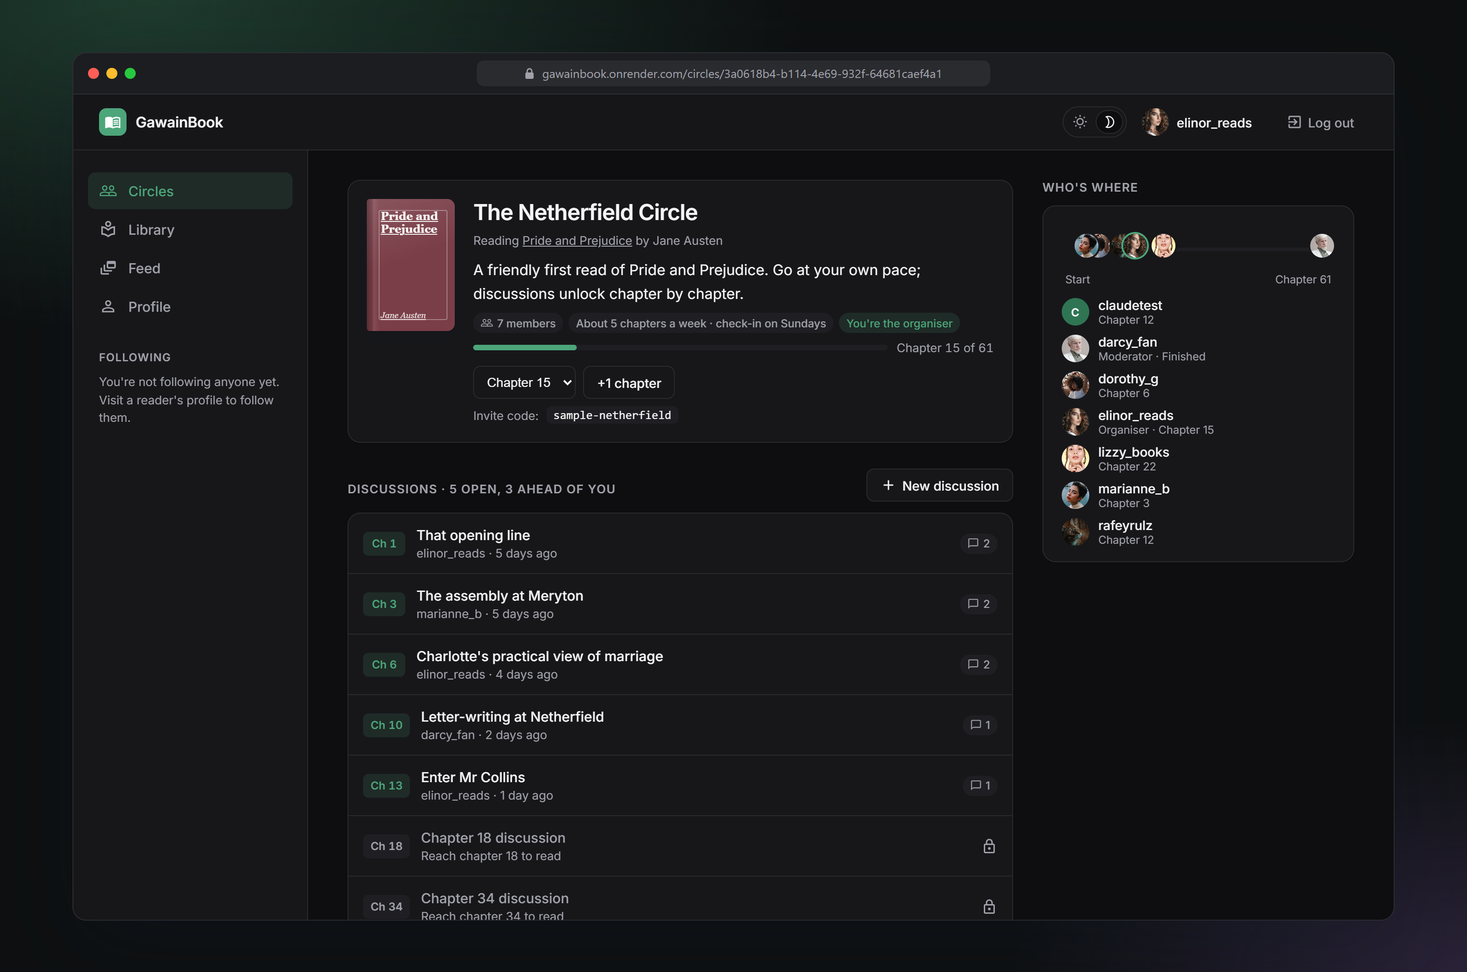
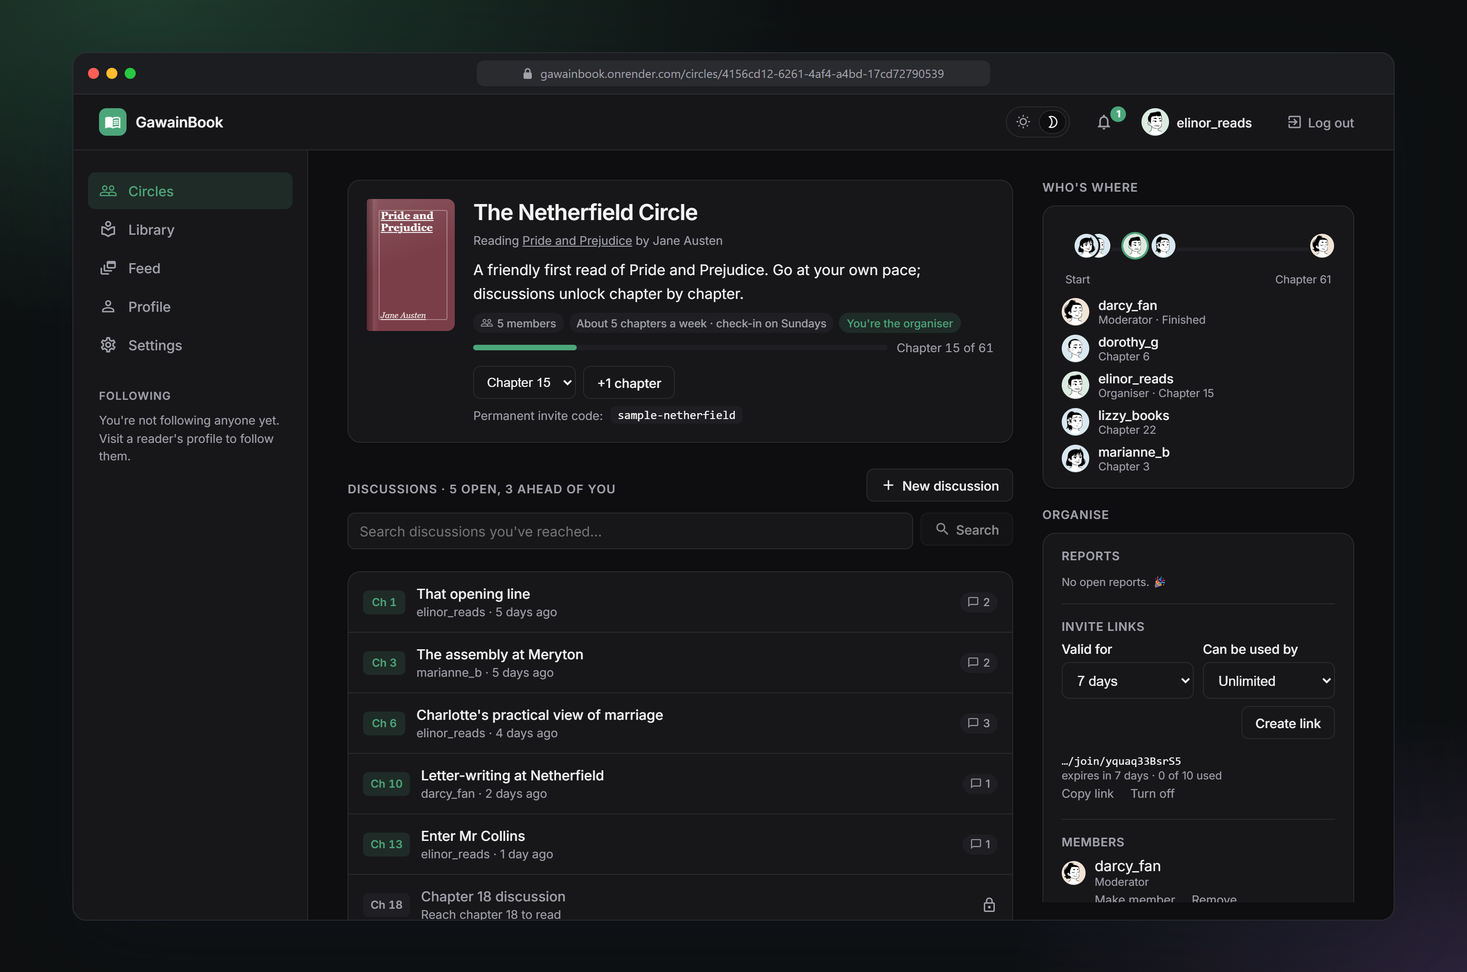
README: new screenshots, how-it-works and architecture diagrams, security section

diff --git a/e2e/scripts/readme-screenshots.js b/e2e/scripts/readme-screenshots.js
@@ -1,0 +1,140 @@
+// README screenshots, framed in a browser window (or phone) on a soft background.
+// Start the throwaway server first (node Node-Rest-API/dist/scripts/e2eServer.js), then:
+//   cd e2e && node scripts/readme-screenshots.js http://localhost:8899 ../docs/screenshots
+// Set PW_CHANNEL=msedge on Windows to use the installed Edge.
+const { chromium } = require("@playwright/test");
+const fs = require("fs");
+const path = require("path");
+const [base, outDir] = process.argv.slice(2);
+const SHOWN_HOST = "gawainbook.onrender.com";
+const PASSWORD = "sample-password";
+fs.mkdirSync(outDir, { recursive: true });
+const wait = (ms) => new Promise((r) => setTimeout(r, ms));
+
+async function login(ctx, username) {
+  const page = await ctx.newPage();
+  await page.goto(base + "/login", { waitUntil: "networkidle" });
+  await page.fill("#email", `${username}@sample.gawainbook.invalid`);
+  await page.fill("#password", PASSWORD);
+  await page.click("button[type=submit]");
+  await page.waitForSelector("a[href^='/circles/']");
+  return page;
+}
+
+// Calls the API from inside the page (cookies + CSRF header, like the app).
+const api = (page, method, url, body) =>
+  page.evaluate(
+    async ({ method, url, body }) => {
+      const csrf = decodeURIComponent((document.cookie.match(/(?:^|; )gb_csrf=([^;]+)/) || [])[1] || "");
+      const r = await fetch("/api" + url, { method, credentials: "include", headers: { "Content-Type": "application/json", "X-CSRF-Token": csrf }, body: body ? JSON.stringify(body) : undefined });
+      return r.json();
+    },
+    { method, url, body }
+  );
+
+async function settle(page) {
+  await page.waitForLoadState("networkidle");
+  await page.evaluate(() => Promise.all([...document.images].map((i) => (i.complete ? null : new Promise((r) => { i.onload = i.onerror = r; setTimeout(r, 8000); })))));
+  await wait(700);
+}
+
+function frameHtml({ shot, url, theme, phone }) {
+  const dark = theme === "dark";
+  const bg = dark
+    ? "radial-gradient(1200px 600px at 10% 0%, #1e3b2e 0%, transparent 60%), radial-gradient(900px 500px at 100% 100%, #2a2238 0%, transparent 55%), #0d0f10"
+    : "radial-gradient(1200px 600px at 0% 0%, #dcebe1 0%, transparent 60%), radial-gradient(900px 500px at 100% 100%, #f1e4d6 0%, transparent 55%), #f5f3ee";
+  if (phone) {
+    return `<html><body style="margin:0;background:${bg};width:760px;height:1000px;display:grid;place-items:center">
+      <div style="padding:14px;border-radius:52px;background:#111;box-shadow:0 30px 80px rgba(16,24,40,.35),0 0 0 2px #2b2b2b inset">
+        <div style="position:relative;border-radius:40px;overflow:hidden;width:390px;height:844px">
+          <img src="${shot}" style="width:390px;display:block">
+          <div style="position:absolute;top:10px;left:50%;transform:translateX(-50%);width:110px;height:30px;border-radius:20px;background:#111"></div>
+        </div></div></body></html>`;
+  }
+  const chrome = dark ? "#1c1d20" : "#ffffff", bar = dark ? "#2a2b2f" : "#f1f1ef", text = dark ? "#a1a1aa" : "#6b6b73", border = dark ? "#2e2f33" : "#e3e3df";
+  return `<html><body style="margin:0;background:${bg};width:1600px;height:1060px;display:grid;place-items:center;font-family:Segoe UI,sans-serif">
+    <div style="width:1440px;border-radius:14px;overflow:hidden;background:${chrome};box-shadow:0 30px 90px rgba(16,24,40,.28),0 0 0 1px ${border}">
+      <div style="height:44px;display:flex;align-items:center;gap:8px;padding:0 16px;border-bottom:1px solid ${border}">
+        <span style="width:12px;height:12px;border-radius:50%;background:#ff5f57"></span><span style="width:12px;height:12px;border-radius:50%;background:#febc2e"></span><span style="width:12px;height:12px;border-radius:50%;background:#28c840"></span>
+        <div style="margin:0 auto;width:560px;height:28px;border-radius:8px;background:${bar};display:flex;align-items:center;justify-content:center;gap:8px;font-size:13px;color:${text}">
+          <svg width="11" height="12" viewBox="0 0 11 12"><rect x="1" y="5" width="9" height="7" rx="1.5" fill="${text}"/><path d="M3 5V3.5a2.5 2.5 0 015 0V5" stroke="${text}" stroke-width="1.4" fill="none"/></svg>${url}</div>
+        <span style="width:52px"></span></div>
+      <img src="${shot}" style="width:1440px;display:block"></div></body></html>`;
+}
+
+async function frame(browser, buf, opts, file) {
+  const raw = path.join(outDir, "_raw-" + file);
+  fs.writeFileSync(raw, buf);
+  const html = path.join(outDir, "_frame.html");
+  fs.writeFileSync(html, frameHtml({ shot: "file:///" + raw.replace(/\\/g, "/"), ...opts }));
+  const ctx = await browser.newContext({ viewport: { width: opts.phone ? 760 : 1600, height: opts.phone ? 1000 : 1060 }, deviceScaleFactor: 2 });
+  const p = await ctx.newPage();
+  await p.goto("file:///" + html.replace(/\\/g, "/"));
+  await p.evaluate(() => Promise.all([...document.images].map((i) => i.decode().catch(() => {}))));
+  await p.screenshot({ path: path.join(outDir, file) });
+  await ctx.close();
+  fs.unlinkSync(raw);
+  console.log("framed", file);
+}
+
+(async () => {
+  const browser = await chromium.launch({ channel: process.env.PW_CHANNEL || undefined, args: ["--allow-file-access-from-files"] });
+
+  // Stage the data: darcy replies to elinor's discussion (a notification),
+  // elinor fills in her reading profile.
+  const dctx = await browser.newContext();
+  const darcy = await login(dctx, "darcy_fan");
+  const elCtx = await browser.newContext({ viewport: { width: 1440, height: 900 }, deviceScaleFactor: 2 });
+  const el = await login(elCtx, "elinor_reads");
+  const circle = await el.$$eval("a[href^='/circles/']", (as) => as.find((a) => a.textContent.includes("Netherfield")).getAttribute("href"));
+  await el.goto(base + circle, { waitUntil: "networkidle" });
+  const thread = await el.$$eval("a[href^='/threads/']", (as) => as.find((a) => a.textContent.includes("Charlotte")).getAttribute("href"));
+  await api(darcy, "POST", `${thread}/comments`, { body: "Practical, yes, but she knew exactly what she was choosing. I respect her more on a reread." });
+  const me = await api(el, "GET", "/auth/me");
+  await api(el, "PUT", `/users/${me._id}`, { favoriteGenres: ["Classics", "Romance", "Historical fiction"], readingLanguage: "en", pace: 5 });
+  await api(el, "POST", `${circle}/invitations`, { expiresInDays: 7, maxUses: 10 });
+
+  const capture = async (page, url, { theme = "light", ready, action } = {}) => {
+    await page.goto(base + url, { waitUntil: "networkidle" });
+    await page.evaluate((t) => localStorage.setItem("theme", t), theme);
+    await page.reload({ waitUntil: "networkidle" });
+    if (ready) await page.waitForSelector(ready);
+    if (action) await action(page);
+    await settle(page);
+    return page.screenshot();
+  };
+
+  const shots = [
+    ["circles-home.png", "/", { ready: ".circleGrid" }],
+    ["circle.png", circle, { ready: ".memberList" }],
+    ["circle-dark.png", circle, { ready: ".memberList", theme: "dark" }],
+    ["discussion.png", thread, { ready: ".threadTitle" }],
+    ["notifications.png", "/", { ready: ".circleGrid", action: async (p) => { await p.click("button[aria-label^='Notifications']"); await p.waitForSelector(".notifPanel"); } }],
+    ["book.png", "/books/pride-and-prejudice", { ready: ".chapterMap" }],
+    ["library.png", "/library", { ready: ".libraryGrid" }],
+    ["profile.png", "/profile/elinor_reads", { ready: ".factList" }],
+    ["settings.png", "/settings", { ready: "form[aria-label='Change password']" }],
+  ];
+  for (const [file, url, opts] of shots) {
+    const buf = await capture(el, url, opts);
+    const shown = url === "/" ? "" : url;
+    await frame(browser, buf, { url: SHOWN_HOST + shown, theme: opts.theme || "light" }, file);
+  }
+
+  // Phone
+  const mctx = await browser.newContext({ viewport: { width: 390, height: 844 }, deviceScaleFactor: 2, storageState: await elCtx.storageState() });
+  const m = await mctx.newPage();
+  await frame(browser, await capture(m, circle, { ready: ".circleHero" }), { phone: true }, "mobile-circle.png");
+  await frame(browser, await capture(m, thread, { ready: ".replyList" }), { phone: true }, "mobile-discussion.png");
+
+  // Signed out: create-account page
+  const gctx = await browser.newContext({ viewport: { width: 1440, height: 900 }, deviceScaleFactor: 2 });
+  const g = await gctx.newPage();
+  await frame(browser, await capture(g, "/register", { ready: "#username" }), { url: SHOWN_HOST + "/register" }, "sign-up.png");
+
+  fs.rmSync(path.join(outDir, "_frame.html"), { force: true });
+  await browser.close();
+})().catch((e) => {
+  console.error(e);
+  process.exit(1);
+});

diff --git a/README.md b/README.md
@@ -4,6 +4,8 @@
 
 <p align="center">
   <a href="https://gawainbook.onrender.com"><strong>Live demo</strong></a> ·
+  <a href="#how-the-spoiler-lock-works">How it works</a> ·
+  <a href="#screenshots">Screenshots</a> ·
   <a href="#getting-started">Run locally</a> ·
   <a href="#api-reference">API</a> ·
   <a href="#roadmap">Roadmap</a> ·
@@ -25,43 +27,63 @@
 
 ## About
 
-**GawainBook** is a social network for readers. Share what you're reading, post your thoughts and quotes, follow other readers and see what the people you trust are reading next.
+**GawainBook** is a home for reading circles: small groups reading the same book at their own pace. Every discussion belongs to a chapter, and **a discussion stays locked until you reach that chapter**: its title, its replies, search results and notifications included. So the reader on chapter 4 can talk freely with the reader on chapter 40, and neither spoils anything for the other.
 
-It's a full-stack TypeScript/JavaScript app: a React frontend and an Express API backed by **PostgreSQL on Neon**, with photos in **Neon object storage**. It's deployed as a single service: the Express API also serves the React app, so the whole thing runs at one URL.
+Around that sit the things a reading community needs: shelves and chapter-by-chapter progress, invite links for private circles, organiser and moderator roles, reporting and blocking, and a feed for sharing what you're reading.
+
+It's a full-stack TypeScript app: a React frontend and an Express API backed by **PostgreSQL on Neon**, with photos in **Neon object storage**. It runs as a single service: the Express API also serves the React app, so the whole thing lives at one URL.
 
 > **Live demo:** https://gawainbook.onrender.com
 > Runs on Render's free plan, which sleeps after 15 minutes without visitors. The first load can take 30–60 seconds while it wakes up.
 
+## How the spoiler lock works
+
+One function decides who can see what ([`src/policy.ts`](Node-Rest-API/src/policy.ts)), and every route that returns discussion content goes through it. Lists apply the same rule in SQL (`chapter <= your progress`), so later chapters never leave the database.
+
+```mermaid
+flowchart LR
+    R([Reader opens a discussion]) --> V{Can see the circle?<br/>public, or a member}
+    V -- no --> H[404 Not found<br/><i>a private circle isn't revealed</i>]
+    V -- yes --> B{Blocked either way?}
+    B -- yes --> H
+    B -- no --> P{Reached its chapter?<br/>progress comes from the database}
+    P -- no --> L[Locked placeholder<br/><i>chapter number only:<br/>no title, author or text</i>]
+    P -- yes --> O[Open: title, text, replies]
+```
+
+The same check filters thread lists, single threads, replies, search and notifications. Move your progress back and later discussions lock again straight away. A [10-case test matrix](docs/plan/GawainBook_Launch_Plan.md#44-the-test-matrix-that-proves-the-core-promise) and a Playwright test in a real browser prove it.
+
 ## Screenshots
 
 <p align="center">
-  <img src="docs/screenshots/circle.png" alt="A reading circle: members' progress along the book, open discussions and spoiler-locked ones" width="900">
-  <br><sub><b>A reading circle.</b> Everyone's place in the book on the right; discussions ahead of you stay locked until you get there.</sub>
+  <img src="docs/screenshots/circle.png" alt="A reading circle: members' progress along the book, open discussions, locked ones, and the organiser's tools" width="920">
+  <br><sub><b>A reading circle.</b> Who's where in the book, discussions up to your chapter, later ones locked. Organisers get invite links, members and reports beside it.</sub>
 </p>
 
-| Your circles | A chapter discussion |
+| Your circles | Notifications, filtered by the spoiler rule |
 | :---: | :---: |
-| <img src="docs/screenshots/circles-home.png" alt="Home screen: continue reading and your circles" width="440"> | <img src="docs/screenshots/discussion.png" alt="A chapter discussion with replies" width="440"> |
-| **Book page with chapter map** | **Your library and shelves** |
-| <img src="docs/screenshots/book.png" alt="Book page with chapter map and circles reading it" width="440"> | <img src="docs/screenshots/library.png" alt="Library grid of books" width="440"> |
-| **Profile with photo and cover** | **Dark mode** |
-| <img src="docs/screenshots/profile.png" alt="Reader profile with profile photo and cover image" width="440"> | <img src="docs/screenshots/circle-dark.png" alt="Circle page in dark mode" width="440"> |
-| **On your phone** | **Sign in** |
-| <img src="docs/screenshots/mobile-circle.png" alt="Circle page on a phone with tab navigation" width="300"> | <img src="docs/screenshots/sign-in.png" alt="Sign-in page" width="440"> |
+| <img src="docs/screenshots/circles-home.png" alt="Home: continue reading, your circles and circles to discover" width="440"> | <img src="docs/screenshots/notifications.png" alt="Notification panel showing a reply to your discussion" width="440"> |
+| **A chapter discussion** | **Book page with chapter map** |
+| <img src="docs/screenshots/discussion.png" alt="A chapter discussion with replies, edit, report and moderation actions" width="440"> | <img src="docs/screenshots/book.png" alt="Book page with a chapter map and the circles reading it" width="440"> |
+| **Profile and reading profile** | **Library: shelves and book search** |
+| <img src="docs/screenshots/profile.png" alt="Profile with avatar, reading profile (genres, language, pace) and posts" width="440"> | <img src="docs/screenshots/library.png" alt="Library with shelves and progress" width="440"> |
+| **Settings: password, data export, deletion** | **Dark mode** |
+| <img src="docs/screenshots/settings.png" alt="Settings page with email status, password change, data download and account deletion" width="440"> | <img src="docs/screenshots/circle-dark.png" alt="Circle page in dark mode" width="440"> |
+| **Sign-up with consent** | **On your phone** |
+| <img src="docs/screenshots/sign-up.png" alt="Create-account page with terms and age confirmation" width="440"> | <img src="docs/screenshots/mobile-circle.png" alt="Circle page on a phone" width="210"> <img src="docs/screenshots/mobile-discussion.png" alt="Discussion on a phone" width="210"> |
 
-<sub>Captured from the live demo with the sample readers.</sub>
+<sub>Captured from a throwaway copy of the app with the demo data (sample readers use CC0 avatars). Regenerate them with [`e2e/scripts/readme-screenshots.js`](e2e/scripts/readme-screenshots.js).</sub>
 
 ## Features
 
 **Accounts**
-- Forgotten password: reset by email (single-use, one-hour links); confirm your email from a link
-- Settings: change your password (needs the current one), download all your data, delete your account
-- Sign-up asks for the terms, privacy notice and minimum age (16); the accepted version is recorded
-- Sign up and sign in from a single page, with a smooth switch between the two
-- Clear inline errors (wrong password, email already registered, username taken)
-- Secure sessions: an httpOnly cookie (never readable by JavaScript), CSRF protection, server-side logout, and rate limits on sign-in
-- Sign-in emails are case- and whitespace-insensitive; password hashes never leave the server
-- Log out from the top bar
+- Sign up and sign in from a single page, with a smooth switch between the two and clear inline errors
+- Sign-up asks you to accept the terms and privacy notice and to confirm you're at least 16; the accepted terms version is recorded
+- Confirm your email from a link; a banner reminds you until you do
+- **Forgotten password:** reset by email with a single-use link that lasts one hour. The answer is the same whether or not an account exists, so nobody can find out who's signed up
+- **Settings:** change your password (needs the current one, signs out other devices), download all your data as JSON, delete your account
+- Secure sessions: an httpOnly cookie (never readable by JavaScript), CSRF protection, server-side logout, and rate limits on sign-in and password reset
+- Passwords of at least 8 characters, stored only as bcrypt hashes
 - Light and dark themes, remembered per browser
 - Full-width layout with a fixed sidebar and context panels (who's where, chapter map) on wide screens, and a tab bar on phones
 
@@ -79,7 +101,16 @@ It's a full-stack TypeScript/JavaScript app: a React frontend and an Express API
 - Report a discussion or reply (spoiler, unkind, spam, other) to the circle's moderators, who see a review queue
 - Moderators hide content; members see a placeholder, moderators still see what was hidden
 - Block a reader: you stop seeing each other's discussions, replies, posts and notifications, and any follows end
+- Report a post or a profile; these go to the site's admins
+- **Admin area** (`/admin`): review reports, delete posts, suspend and unsuspend accounts. A suspended reader is signed out everywhere and hidden from everyone else
 - Rate limits on posting, per reader
+
+**Privacy and legal (Germany / GDPR)**
+- Terms of use, privacy notice and Impressum pages
+- No tracking or advertising cookies, so no cookie banner
+- Fonts are served from this site, not Google Fonts (which would send visitors' IP addresses to Google)
+- Book search goes through the server, so Open Library never learns who searched
+- How far you've read is only shown inside circles you share
 
 **Books and library**
 - Shelves: *Want to read*, *Reading*, *Finished*, with chapter-by-chapter progress (private to you)
@@ -112,8 +143,11 @@ The full plan is in [`docs/plan/GawainBook_Launch_Plan.md`](docs/plan/GawainBook
 - [x] Reading circles with chapter progress and spoiler-safe discussions
 - [x] Invite links, roles, search, reporting, blocking, moderation and notifications (Phase 1)
 - [x] End-to-end test of the whole circle journey in a real browser (Playwright)
-- [ ] A spoiler-aware reading assistant for public-domain books
 - [x] Password reset, email confirmation, data export, account deletion, terms, site-wide reports and an admin area ([launch readiness](docs/launch-readiness.md))
+- [ ] Email sending switched on in production (needs a Resend account and a verified domain)
+- [ ] Error tracking and uptime monitoring
+- [ ] Reading reminders by email
+- [ ] A spoiler-aware reading assistant for public-domain books (Phase 2)
 
 ## Tech stack
 
@@ -123,8 +157,52 @@ The full plan is in [`docs/plan/GawainBook_Launch_Plan.md`](docs/plan/GawainBook
 | Backend | Node.js 22, Express 4, **TypeScript**, bcrypt, Helmet, Multer |
 | Database | **PostgreSQL on Neon**, **Drizzle ORM** + SQL migrations, node-postgres |
 | File storage | **Neon object storage** (S3-compatible, private bucket, presigned URLs) |
+| Email | [Resend](https://resend.com) for account emails (written to the server log when no key is set) |
 | Testing | Jest, Supertest, React Testing Library, Playwright, a real embedded PostgreSQL for backend and end-to-end tests |
 | Hosting | Render (single web service, auto-deploys on every push to `master`) |
+
+## Architecture
+
+```mermaid
+flowchart LR
+    subgraph Browser
+      UI[React app<br/>React Router, Axios]
+    end
+    subgraph Render["Render: one web service"]
+      API[Express API<br/>TypeScript]
+      POL[[policy.ts<br/>spoiler + access rules]]
+      API --- POL
+    end
+    UI -- "/api, session cookie + CSRF header" --> API
+    API -- "Drizzle ORM, SQL migrations" --> DB[(Neon Postgres)]
+    API -- "S3 API, signed links" --> S3[(Neon object storage<br/>photos)]
+    API -- "book search, cached" --> OL[Open Library]
+    API -- "account emails" --> MAIL[Resend]
+```
+
+- **One service, one URL.** Express serves both `/api` and the built React app, so there's no CORS and cookies stay first-party.
+- **Database first.** Constraints (unique usernames, valid roles, chapter ranges, one open report per reader) live in Postgres, and every migration is a committed SQL file applied on startup.
+- **Photos never touch the server disk.** They go to a private bucket and are served through short-lived signed links, so they survive redeploys.
+- **Third parties never see who's reading.** Book search is proxied and cached by the server; fonts are self-hosted.
+
+The reasoning behind each choice is in the [decision log](docs/decisions/README.md).
+
+## Security and privacy
+
+| Area | How it's handled |
+| --- | --- |
+| Sessions | Random token in an `httpOnly`, `Secure`, `SameSite=Lax` cookie; only its SHA-256 hash is stored. Server-side logout; 30-day expiry |
+| CSRF | Double-submit token required on every state-changing request |
+| Passwords | bcrypt, at least 8 characters; changing or resetting signs out other devices; changing needs the current password |
+| Reset and confirmation links | 256-bit random, stored hashed, single use, short-lived (1 h / 48 h), only the newest works, built from `APP_URL` (not the request's Host header) |
+| Account discovery | Sign-in and "forgot password" give the same answer whether or not an account exists; sign-in also takes about the same time either way |
+| Abuse | Rate limits on sign-in, sign-up, password reset, uploads and posting; reporting, blocking, moderator hiding, admin suspension |
+| Authorization | The user always comes from the session, never the request body; access rules live in one module and are tested per route |
+| Uploads | Type and size checked; stored under a server-chosen key; only known keys can be served |
+| Headers | Helmet with a strict Content-Security-Policy (images only from this site, the photo bucket and Open Library covers) |
+| GDPR | Terms and privacy consent with version recorded; minimum age 16; data export and self-service deletion; no tracking cookies; no Google Fonts |
+
+Found a security problem? Please don't open a public issue: email the address in the [Impressum](https://gawainbook.onrender.com/impressum).
 
 ## Project structure
 
@@ -137,12 +215,12 @@ The full plan is in [`docs/plan/GawainBook_Launch_Plan.md`](docs/plan/GawainBook
 │   │   ├── storage.ts        Neon object storage (or local disk as a fallback)
 │   │   ├── app.ts            Express app: security headers, uploads, images, routes
 │   │   ├── index.ts          Entry point: env, migrations, server
-│   │   └── scripts/          One-off MongoDB → Postgres migration
+│   │   └── scripts/          Demo data, admin rights, e2e server, MongoDB → Postgres migration
 │   ├── drizzle/              SQL migrations (generated by drizzle-kit, committed)
 │   ├── public/images/        Bundled default images (avatars, placeholders)
 │   └── tests/                API, database, storage and migration tests
 ├── react-frontend/           React app (Create React App)
-├── e2e/                      Playwright end-to-end test of the circle journey
+├── e2e/                      Playwright end-to-end tests (circle journey, accounts, moderation)
 ├── docs/                     Banner, screenshots, decision log, launch plan, book sources
 ├── neon.ts                   Neon infrastructure as code (Postgres + "assets" bucket)
 ├── package.json              Root scripts: build, start, test
@@ -193,7 +271,9 @@ npm run build     # builds the React app and the TypeScript API
 npm start         # http://localhost:8800 (runs migrations on startup)
 ```
 
-Check http://localhost:8800/api/health. It should return `{"db":"connected","error":null,"storage":"neon"}`.
+Check http://localhost:8800/api/health. It should return something like `{"db":"connected","error":null,"storage":"neon","email":"log","apiVersion":5}`.
+
+`"email":"log"` means no Resend key is set: password-reset and confirmation emails are printed in the API's console instead of being sent, so you can copy the link from there.
 
 For frontend development with live reload, run the API as above, then in a second terminal:
 
@@ -203,6 +283,18 @@ npx -p node@16 node node_modules/react-scripts/bin/react-scripts.js start
 ```
 
 Open http://localhost:3000. The dev server forwards `/api` requests to the API on port 8800.
+
+### Demo data and admin rights
+
+```bash
+cd Node-Rest-API
+npm run seed:demo -- --member=<your username>   # sample books, readers and circles (and add you to them)
+npm run seed:demo -- --remove                   # delete all demo data again
+npm run admin -- --grant=<your username>        # site-wide moderation at /admin
+npm run admin -- --list
+```
+
+These use the database in `.env.local`, which is your **production** database if that's where it points.
 
 ### Changing the database schema
 
